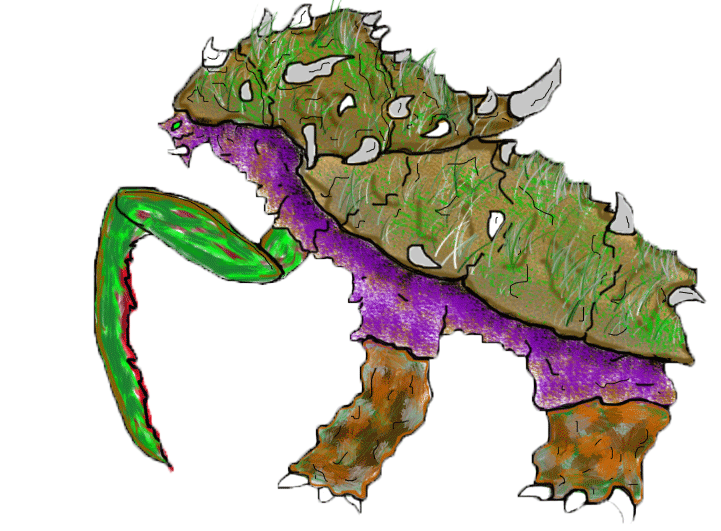
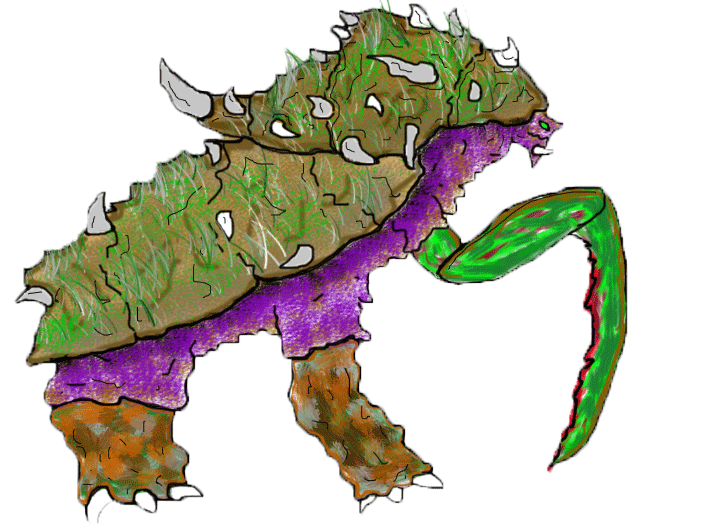
Unit E 좌우반전 문제 해결 / 적을 잡고도 가끔 안움직이던 버그 해결 / 레이저 좌우반전 문제 해결

diff --git a/Terraforming/Assets/Scripts/Main/Unit.cs b/Terraforming/Assets/Scripts/Main/Unit.cs
@@ -73,7 +73,7 @@ public class Unit : TimeManager
         InvokeRepeating("Change_Env", Affect_Env_Period, Affect_Env_Period); //일정 주기마다 환경값을 바꾼다
 
         Stat_Update(); //시작할 때 딱 한 번 스텟을 업데이트 시켜준다.
-
+        This_Renderer.sprite = WalkingFrame[0];
         Anim = StartCoroutine(Animate());
       //  StartCoroutine("Attack_Time"); //공격
     }
@@ -112,6 +112,11 @@ public class Unit : TimeManager
             {
                 if (!Is_Attack)
                     break;
+                if (Is_Paused)
+                {
+                    i--;
+                    yield return new WaitForSeconds(Speed / WalkingFrameNumber / 2f);
+                }
                 This_Renderer.sprite = AttackFrame[i];
                 yield return new WaitForSeconds(Attack_Speed/AttackFrameNumber);
             }
@@ -119,6 +124,11 @@ public class Unit : TimeManager
             {
                 if (Is_Attack)
                     break;
+                if (Speed <= 0 || Is_Paused)
+                {
+                    i--;
+                    yield return new WaitForSeconds(Speed / WalkingFrameNumber / 2f);
+                }
                 This_Renderer.sprite = WalkingFrame[i];
                 yield return new WaitForSeconds(Speed/WalkingFrameNumber/2f);
             }
@@ -130,6 +140,11 @@ public class Unit : TimeManager
         {
             for (int i = 0; i < DeadFrameNumber; i++)
             {
+                if(Is_Paused)
+                {
+                    i--;
+                    yield return new WaitForSeconds(DeadAnimDeltaTime);
+                }
                 This_Renderer.sprite = DeadFrame[i];
                 yield return new WaitForSeconds(DeadAnimDeltaTime);
             }
@@ -273,7 +288,13 @@ public class Unit : TimeManager
     private void Attack()
     {
         if (Enemies.Count == 0)//때릴놈이 없네
+        {
+            StopCoroutine(Anim);
+            Is_Moveable = true;
+            Is_Attack = false;
+            Anim = StartCoroutine(Animate());
             return;
+        }
 
         //예시로 짠 코드는 가장 가까운 적의 Hit(피격) 함수를 호출하는 것이며, 여기 코드는 기획서에 맞게 수정하셔야 합니다.
 
@@ -384,27 +405,33 @@ public class Unit : TimeManager
 
     public void Add_Enemy(Transform Enemy)
     {
-        if(Enemies.Count == 0)
-        {
-            StopCoroutine(Anim);
-            Is_Moveable = false;
-            Is_Attack = true;
-            Anim = StartCoroutine(Animate());
-        }
+
         if (!Enemies.Contains(Enemy))
+        {
+            if (Enemies.Count == 0)
+            {
+                StopCoroutine(Anim);
+                Is_Moveable = false;
+                Is_Attack = true;
+                Anim = StartCoroutine(Animate());
+            }
             Enemies.Add(Enemy);
+        }
     }
     public void Remove_Enemy(Transform Enemy)
     {
-        if(Enemies.Count == 1)
-        {
-            StopCoroutine(Anim);
-            Is_Moveable = true;
-            Is_Attack = false;
-            Anim = StartCoroutine(Animate());
-        }
+
         if (Enemies.Contains(Enemy))
+        {
+            if (Enemies.Count == 1)
+            {
+                StopCoroutine(Anim);
+                Is_Moveable = true;
+                Is_Attack = false;
+                Anim = StartCoroutine(Animate());
+            }
             Enemies.Remove(Enemy);
+        }
     }
 
     public char Get_Type()
